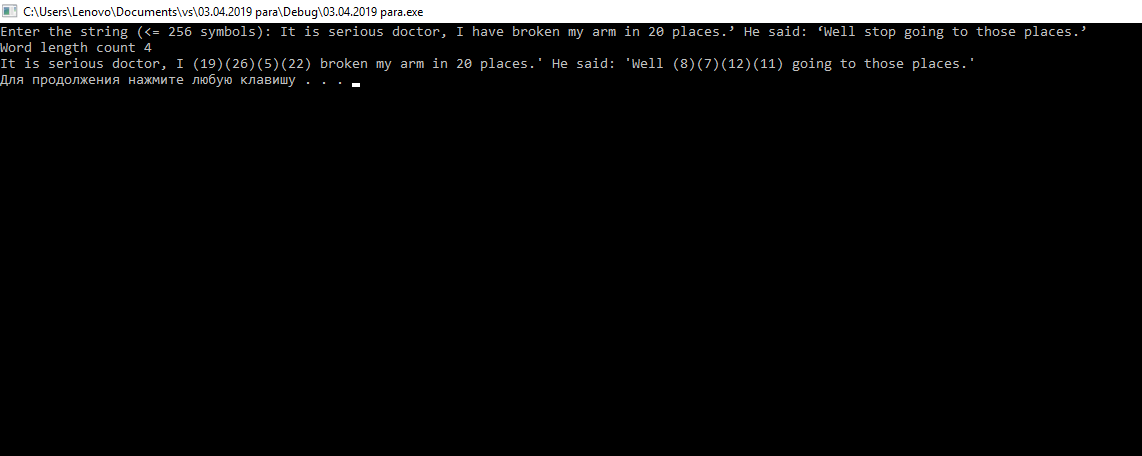
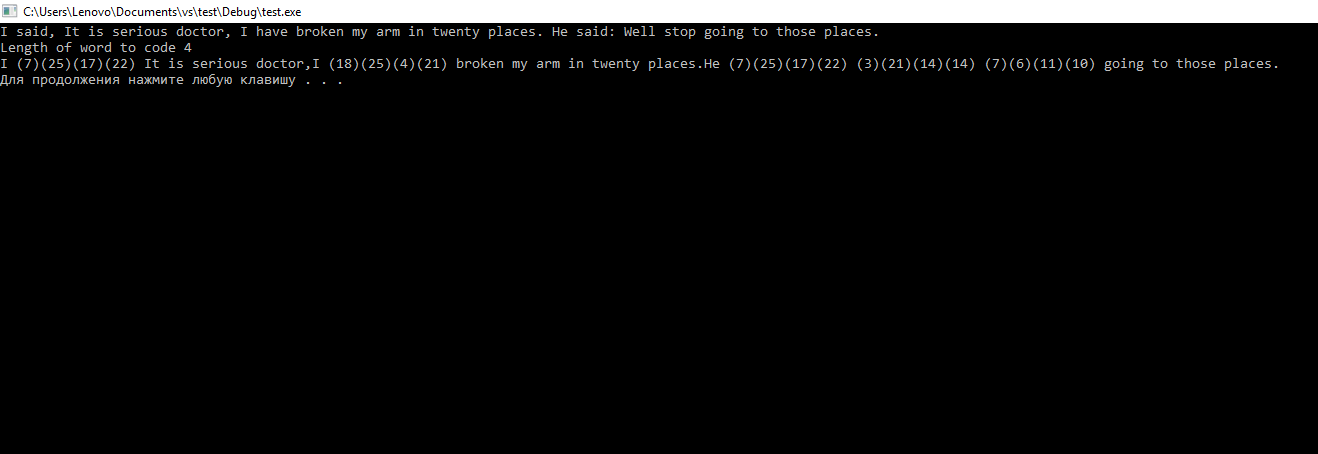
.

Changed region(s): [[0.0, 0.0, 0.9807, 0.185]]

diff --git a/control_work_03.04.2019/Source.cpp b/control_work_03.04.2019/Source.cpp
@@ -1,192 +1,105 @@
 #define _CRT_SECURE_NO_WARNINGS
-#include <iostream>
+#include<iostream>
 
 using namespace std;
 
+typedef char*(*CodeLetter)(char);
+typedef char*(*CodeWord)(char*, int, CodeLetter);
+
 const int N = 256;
 
-typedef char*(*code)(char*);
-
-char* inputString();
-void task(char*, int, code);
-void replaceString(char*, char*, char*);
-int substringPosition(char*, char*, int);
-char* Encode(char*);
+char* task(char*, int, CodeWord, CodeLetter);
+char* encodeWords(char*, int, CodeLetter);
+char* encodeLetter(char);
 
 int main()
 {
-	char* string = inputString();
+	char string[N] = "I said, It is serious doctor, I have broken my arm in twenty places. He said: Well stop going to those places.";
+	cout << string << endl;
 
 	int length;
-	cout << "Word length count ";
+	cout << "Length of word to code ";
 	cin >> length;
 
-	task(string, length, Encode);
-
-	cout << string << endl;
+	cout << task(string, length, encodeWords, encodeLetter) << endl;
 
 	system("pause");
 	return 0;
 }
 
-char* inputString()
+char* task(char* source, int lengthWords, CodeWord codeWord, CodeLetter codeLetter)
 {
-	char* string = new char[N];
+	const char* symbols = "ABCDEFGHIJKLMNOPQRSTUWVXYZabcdefghijklnmopqrstuwvxyz";
+	char* pword = strpbrk(source, symbols);
+	char* result = new char[N] {0};
 
-	cout << "Enter the string (<= 256 symbols): ";
-	cin.getline(string, N);
+	while (pword)
+	{
+		int length = strspn(pword, symbols);
 
-	return string;
+		if (lengthWords == length)
+		{
+			char* code = codeWord(pword, length, codeLetter);
+			strcat(result, code);
+			pword += length;
+			pword = strpbrk(pword, symbols);
+		}
+		else
+		{
+			strncat(result, pword, length + 1);
+			pword += length;
+			pword = strpbrk(pword, symbols);
+		}
+	}
+
+	delete[] pword;
+
+	return result;
 }
 
-void task(char* string, int count, code code)
+char* encodeWords(char* word, int length, CodeLetter codeLetter)
 {
-	char* copy = new char[N];
-	strcpy(copy, string);
-	char* newString = strtok(copy, " ,.");
+	char* result = new char[N] {0};
 
-	while (newString)
+	for (int i = 0; i < length; i++)
 	{
-		if (strlen(newString) == count)
-		{
-			replaceString(string, newString, code(newString));
-		}
-
-		newString = strtok(NULL, " ,.-");
+		strcat(result, codeLetter(word[i]));
 	}
 
-	delete[] newString;
-	delete[] copy;
+	strcat(result, " ");
+
+	return result;
 }
 
-void replaceString(char* string, char* substing, char* replace)
+char* encodeLetter(char letter)
 {
-	char* newString = new char[N];
+	const char* symbolsUp = "ZYXWVUTSRQPONMLKJIHGFEDCBA";
+	const char* symbolsDown = "zyxwvutsrqponmlkjihgfedcba";
+	const char* brace = "()";
 
-	int newLength = strlen(replace),
-		oldLength = strlen(substing),
-		sLength = strlen(string),
-		start = 0,
-		oldStart = 0,
-		count = 0,
-		difference = newLength - oldLength;
+	char* code = new char[5]{ 0 };
 
-	int index = substringPosition(string, substing, start);
-
-	for (int i = 0; i < index; i++)
+	for (int i = 0; i < strlen(symbolsUp); i++)
 	{
-		newString[i] = string[i];
-	}
-
-	while (index != -1)
-	{
-		for (int j = index + count * (difference), i = 0; j < index + newLength + count * (difference); j++, i++)
+		if (letter == symbolsUp[i] || letter == symbolsDown[i])
 		{
-			newString[j] = replace[i];
-		}
-		start = index + newLength;
+			code[0] = brace[0];
 
-		int newIndex = substringPosition(string, substing, start);
-
-		while (newIndex != -1)
-		{
-			for (int i = index + newLength + count * (difference), j = index + oldLength; j < newIndex; i++, j++)
+			if (i < 10)
 			{
-				newString[i] = string[j];
-			}
-			break;
-		}
-
-		while (newIndex == -1)
-		{
-			for (int i = index + newLength + count * (difference), j = index + oldLength; j < sLength; i++, j++)
-			{
-				newString[i] = string[j];
-			}
-			break;
-		}
-
-		index = substringPosition(string, substing, start);
-		count++;
-	}
-
-	newString[strlen(string) + difference] = '\0';
-	strcpy(string, newString);
-}
-
-int substringPosition(char* string, char* substring, int start)
-{
-	int n = strlen(string),
-		m = strlen(substring);
-
-	if (m > n)
-	{
-		return -1;
-	}
-
-	int count = 0,
-		index = -1;
-
-	for (int i = start; i < n; i++)
-	{
-		for (int j = 0; j < m; j++)
-		{
-			if (substring[j] == string[i + count])
-			{
-				index = i;
-				count++;
-				if (j == m - 1)
-				{
-					return index;
-				}
+				code[1] = i + '0';
+				code[2] = brace[1];
 			}
 			else
 			{
-				index = -1;
-				count = 0;
-				break;
+				code[1] = i / 10 + '0';
+				code[2] = i % 10 + '0';
+				code[3] = brace[1];
 			}
+
+			break;
 		}
 	}
-	return index;
-}
 
-char* Encode(char* word)
-{
-	char* codedWord = new char[N];
-	const char* symbolsUp = "ZYXWVUTSRQPONMLKJIHGFEDCBA";
-	const char* symbolsDown = "zyxwvutsrqponmlkjihgfedcba";
-
-	int length = 0;
-	bool isEncode = false;
-
-	for (int i = 0; i < strlen(word); i++)
-	{
-		for (int j = 0; j < strlen(symbolsUp), isEncode == false; j++)
-		{
-			if (word[i] == symbolsUp[j] || word[i] == symbolsDown[j])
-			{
-				codedWord[length] = '(';
-				length++;
-
-				if (j > 9)
-				{
-					codedWord[length] = 48 + (j + 1) / 10;
-					length++;
-				}
-
-				codedWord[length] = 48 + (j + 1) % 10;
-				length++;
-
-				codedWord[length] = ')';
-				length++;
-				isEncode = true;
-			}
-		}
-		isEncode = false;
-	}
-
-	codedWord[length] = '\0';
-
-	return codedWord;
+	return code;
 }
